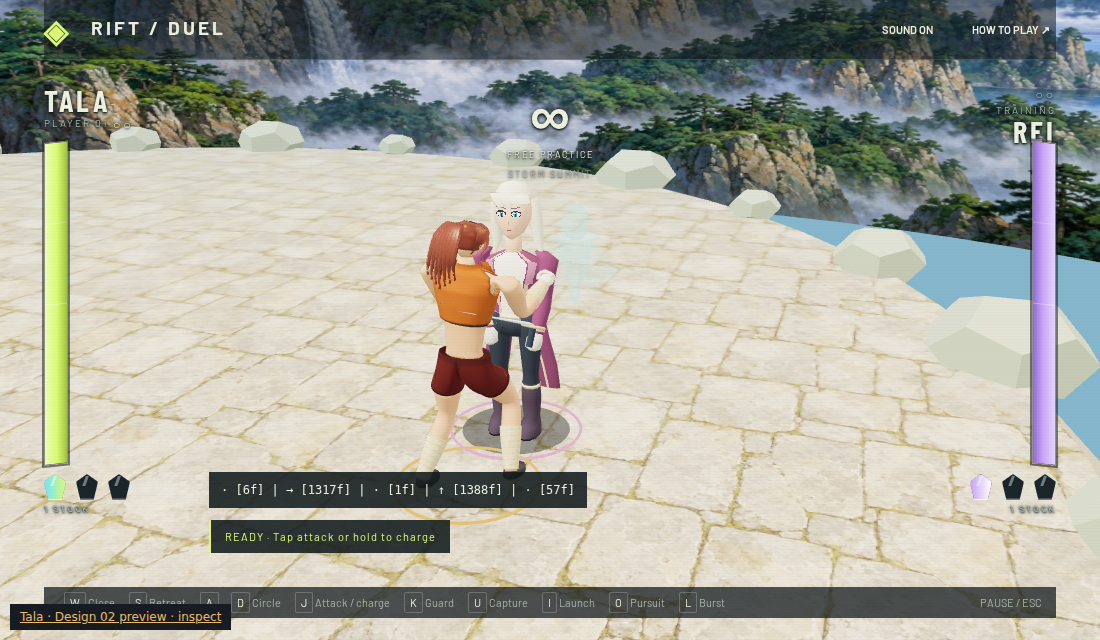
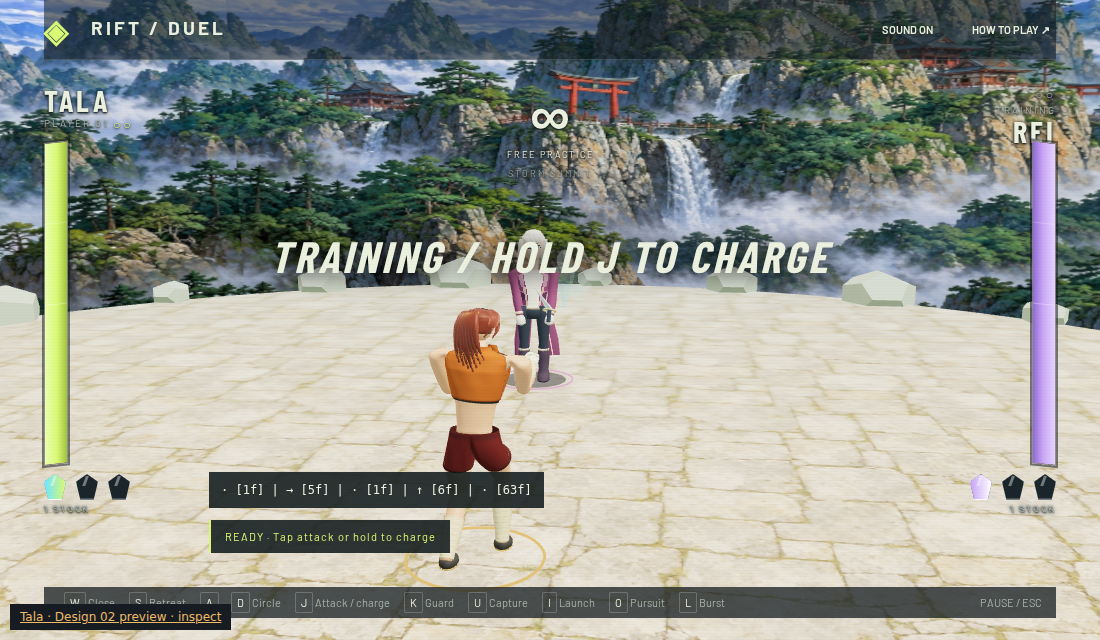
Confirm final browser acceptance and complete Tala character review evidence

diff --git a/art/blender/tala-design02/README.md b/art/blender/tala-design02/README.md
@@ -4,7 +4,7 @@ The solid hair masses are replaced with a fitted scalp, layered UV-directed stra
 
 Cloud run [39671860352](https://github.com/Tusingw29/rift-duel/actions/runs/39671860352) rebuilt the asset, passed 249 game tests, rendered twelve stills and a fresh 576×720, 30 fps guard/combo video. The manifest records source `73be967` and 25 file checksums. The early preview and final GLB were byte-identical. The model is 4,295,164 bytes, 15 mesh parts, 36,627 Blender mesh vertices (42,414 loaded GLB vertices after export splits) and the same 17 bones. No new combat timing or animation choreography is claimed.
 
-Branch Chromium run [39672755553](https://github.com/Tusingw29/rift-duel/actions/runs/39672755553) passed all 11 gameplay/review checks without console errors. Its screenshots cover the fight, face, side, back and guard; see `browser-056/`. This software-rendered run is not a frame-rate measurement on the user’s computer.
+Branch Chromium run [39674289748](https://github.com/Tusingw29/rift-duel/actions/runs/39674289748) passed all 11 gameplay/review checks without console errors. The face preset was lowered and widened after the first browser review cropped the chin. Its final screenshots cover the fight, face, side, back and guard; see `browser-056/`. This software-rendered run is not a frame-rate measurement on the user’s computer.
 
 Visual review caught and corrected dark scalp margins and an open ponytail root before promotion. The face still needs a closer concept match; collar/shoulder fit, lower-body anatomy and shoe detail are not finished. The head still uses a painted face on shaped geometry, not a facial-expression rig. The historical sections below describe earlier revisions; the checked-in stills and motion video now correspond to 0.56.
 

diff --git a/README.md b/README.md
@@ -4,7 +4,7 @@ An original browser-based 3D arena fighter inspired by the two-button combat and
 
 **Play:** https://tusingw29.github.io/rift-duel/
 
-**Tala art and motion:** [Inspect the current model and live animations](https://tusingw29.github.io/rift-duel/tala-blender.html). Storm Circuit is now the default in the public game. Options → Tala appearance retains the earlier model; failed asset loading also falls back to it. The art remains a work in progress.
+**Tala art and motion:** [Inspect the rebuilt Design 02 model and live animations](https://tusingw29.github.io/rift-duel/tala-blender.html?model=design02). Storm Circuit is now the default in the public game. Options → Tala appearance retains the earlier model; failed asset loading also falls back to it. The art remains a work in progress.
 
 ## Alpha 0.56: Tala character pass
 
